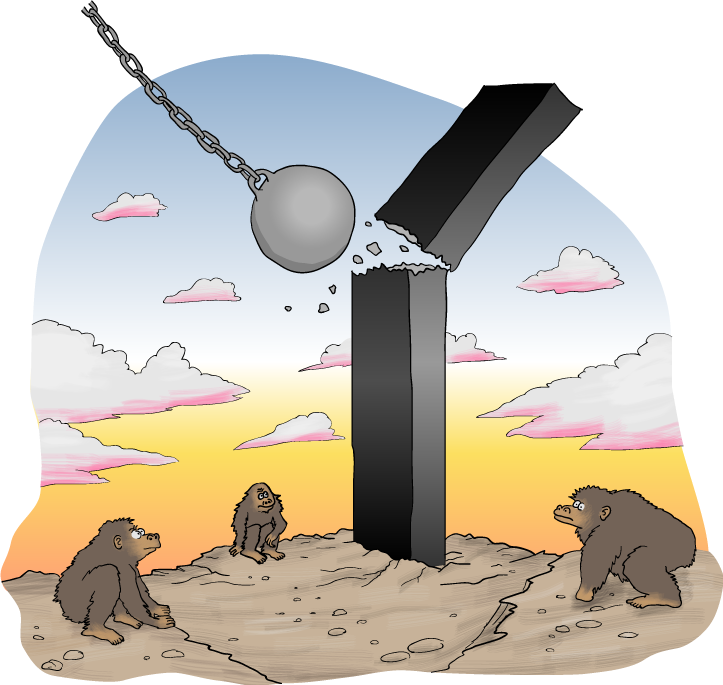
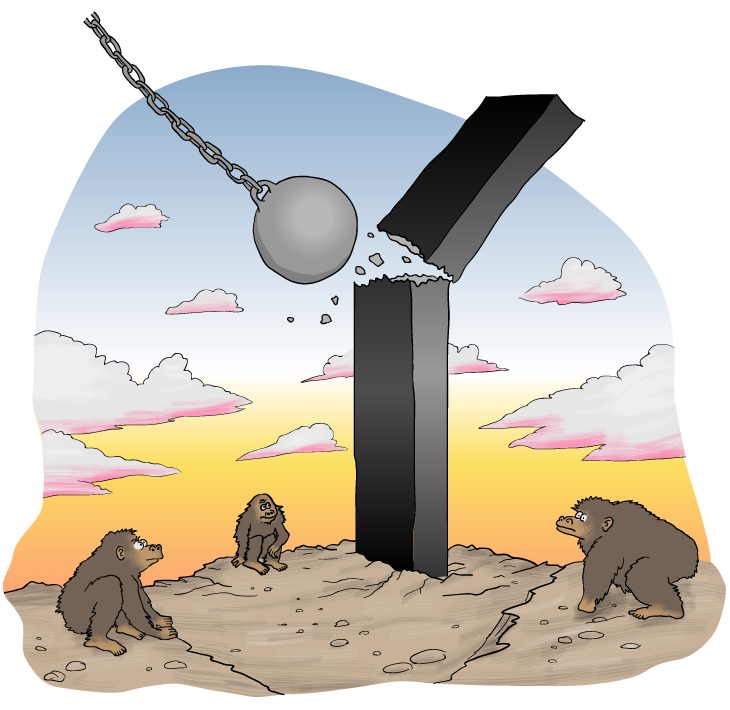
monolith pics size fix

diff --git a/index.html b/index.html
@@ -84,8 +84,8 @@
                 </section>
 
                 <!-- breaking the monolith cartoon -->
-                <section data-background="url(images/breaking-the-monolith-before.png) no-repeat center"></section>
-                <section data-background="url(images/breaking-the-monolith-after.png) no-repeat center"></section>
+                <section data-background="url(images/breaking-the-monolith-before.png) no-repeat center 100%/contain"></section>
+                <section data-background="url(images/breaking-the-monolith-after.png) no-repeat center 100%/contain"></section>
 
                 <!-- service oriented architecture -->
                 <section data-transition="none">
